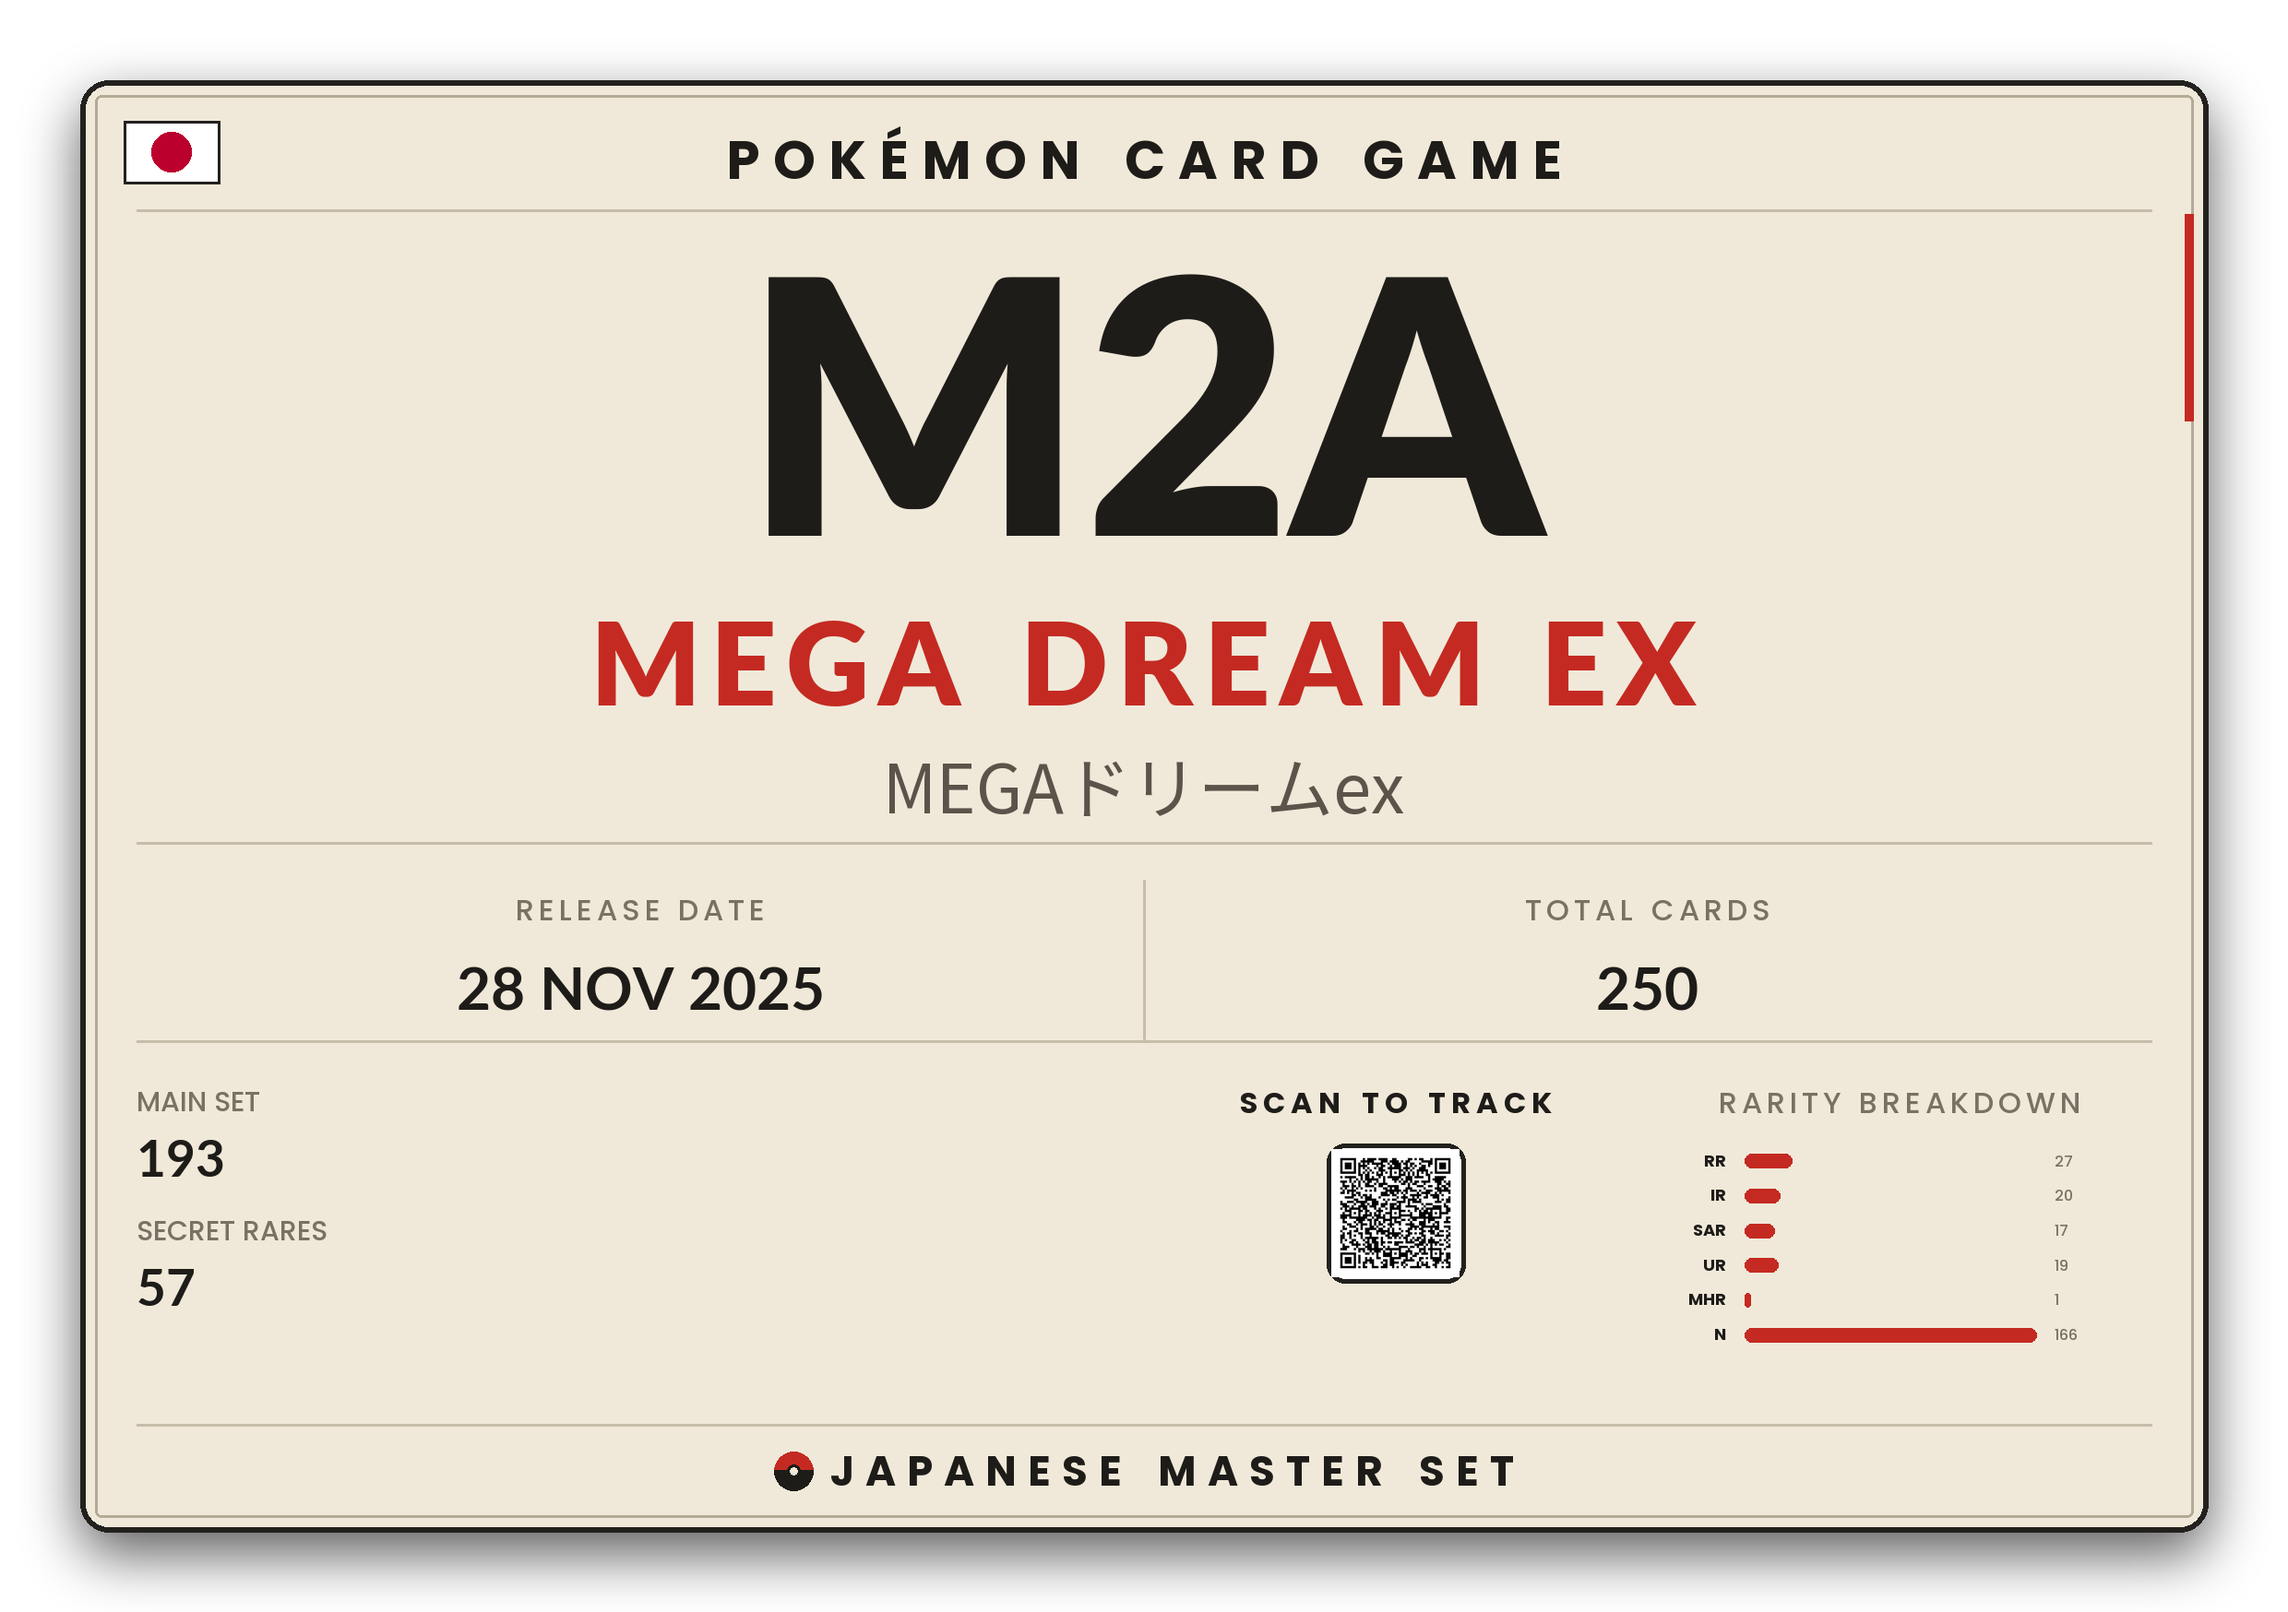
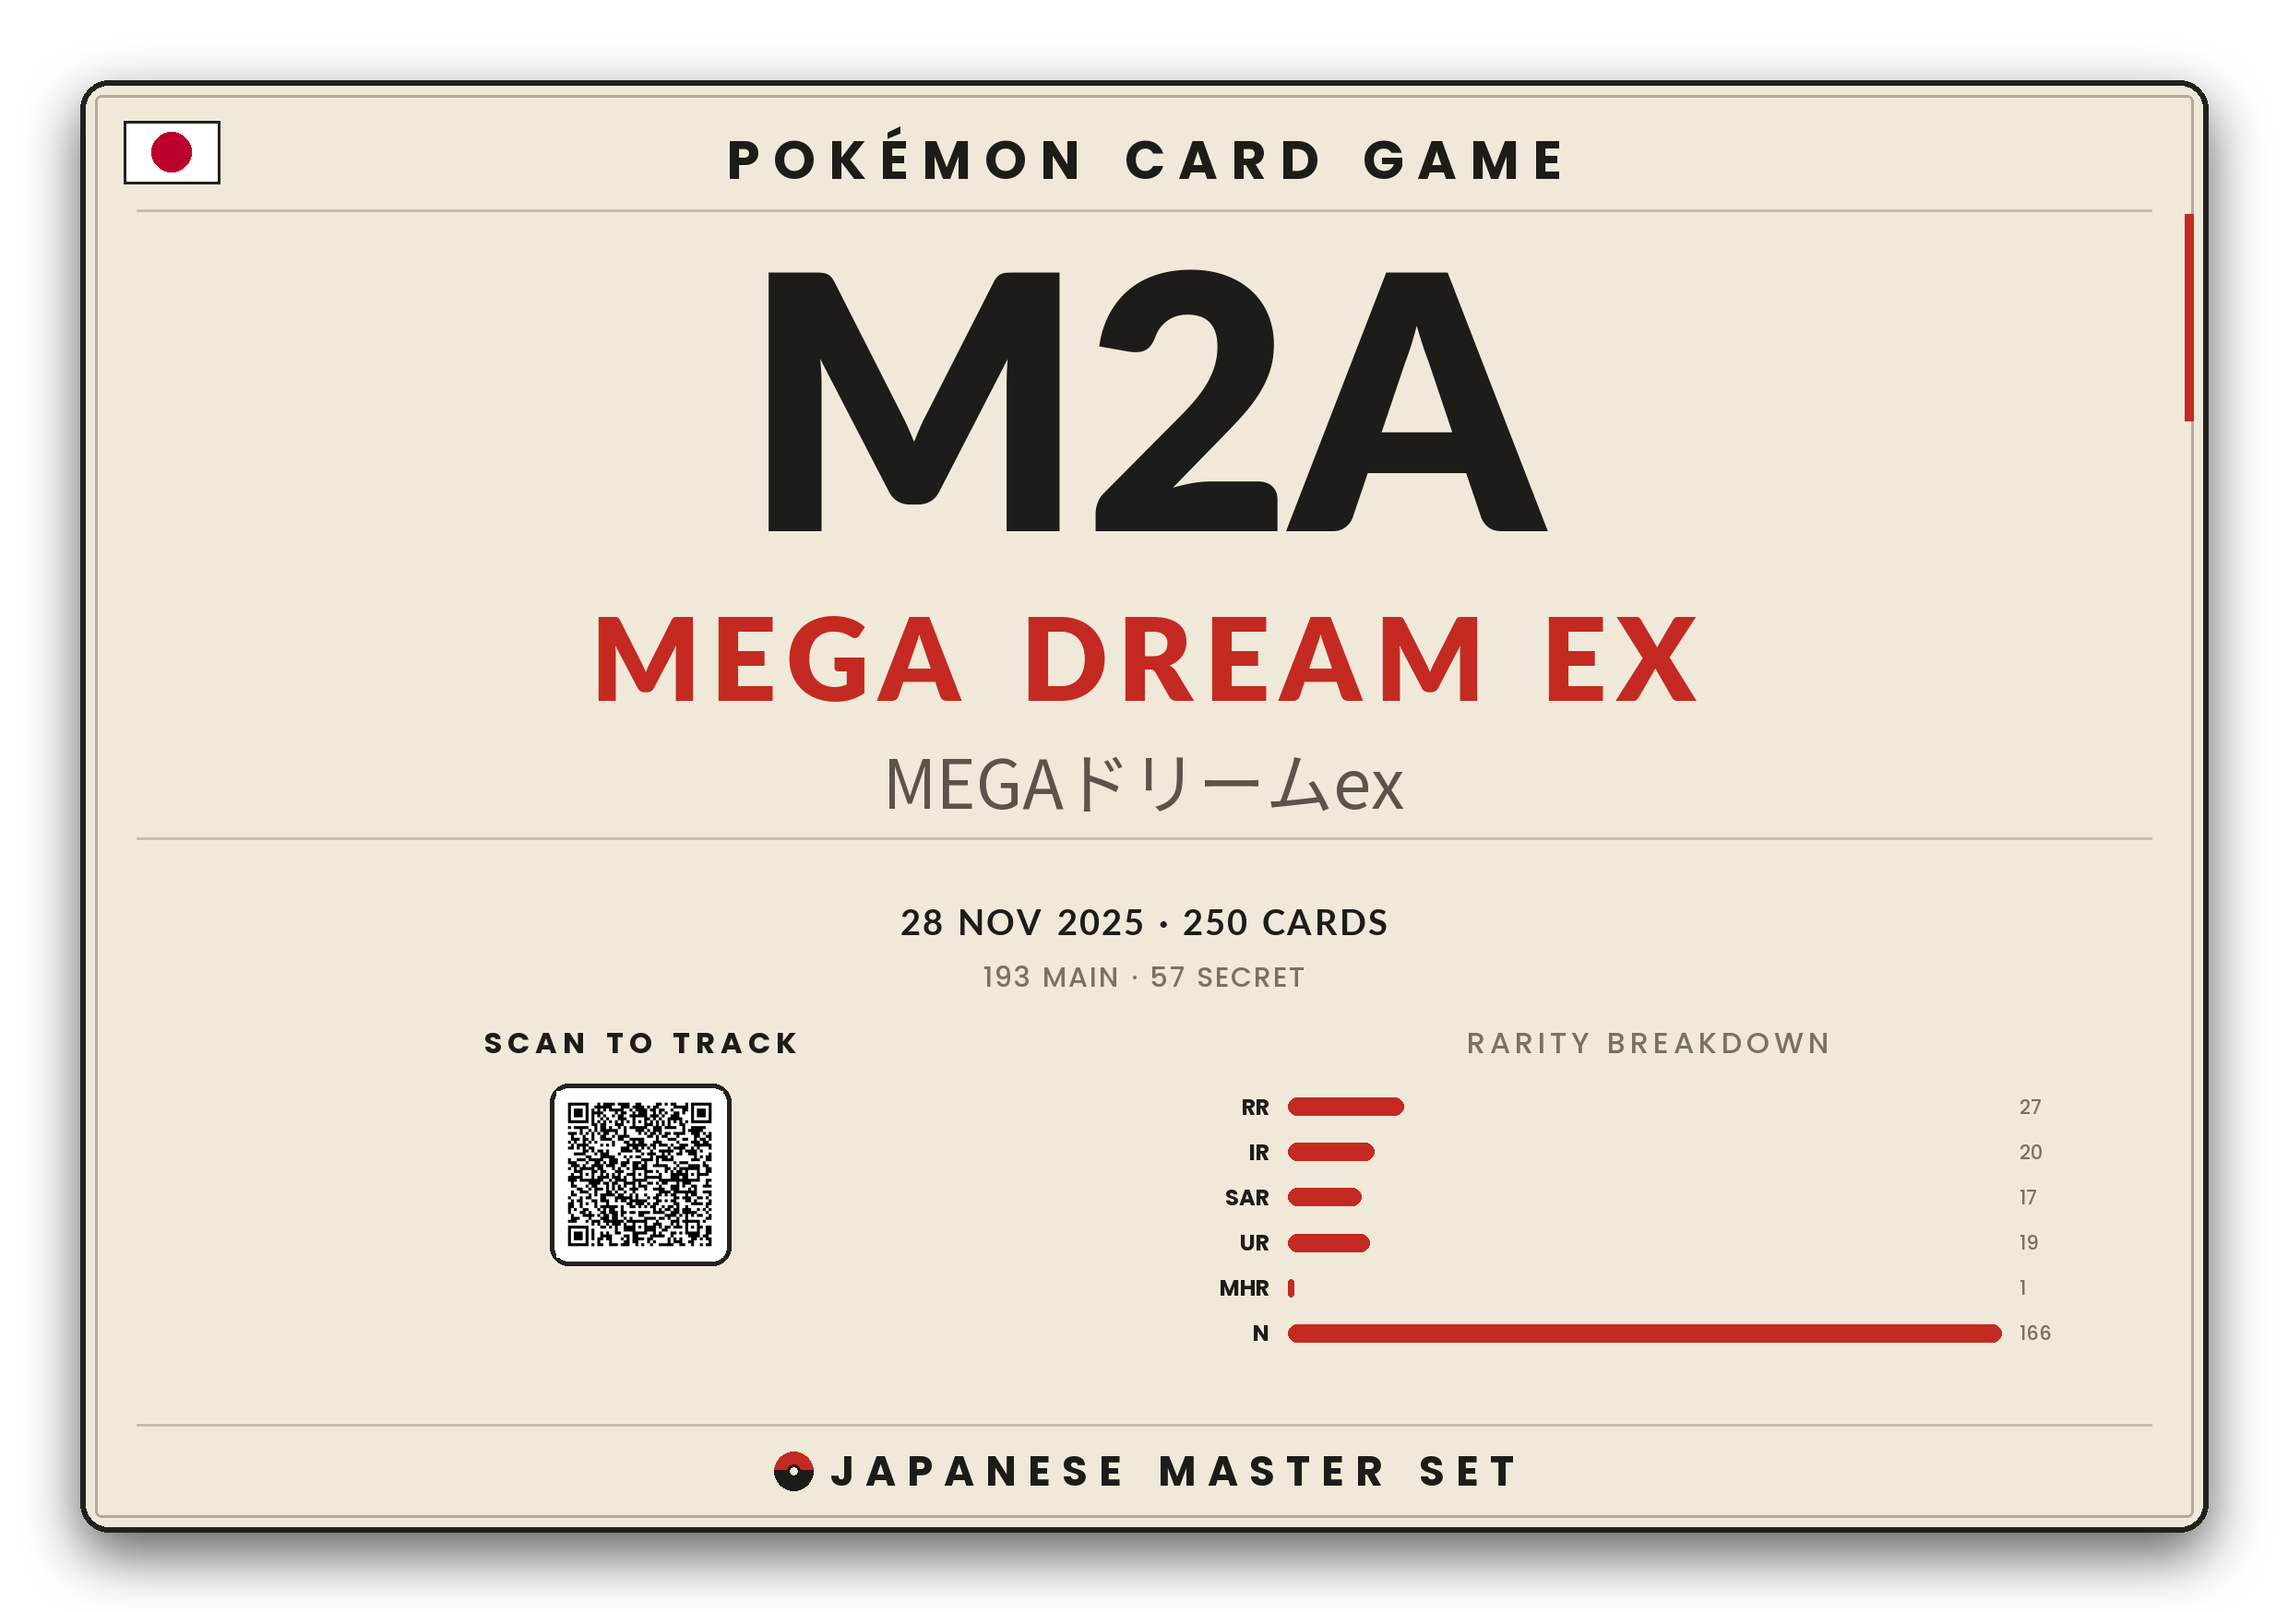
Match single-set a5-landscape's date/stats/QR layout to the dual cover's style
Replaces the square/a5 layout's two-column RELEASE DATE/TOTAL CARDS grid and
separate left-column stats block with the dual cover's compact centered
lines on a5-landscape specifically: "DATE · N CARDS" then "N MAIN · N
SECRET" below it, both centered on the panel. There's only one set here so
a left/right split wasn't buying anything, and centering (rather than
biasing right) also let the QR code/gauge/rarity row below move to being
centered as a pair around the panel center instead of confined to the
former right column.

QR code size is now scaled by dscale on a5-landscape (previously left
unscaled like run_dual's) -- it looked too small once everything else
around it grew, since it was the only large fixed-size graphic left in an
otherwise-scaled-up layout. The completion gauge's centering moved from the
old right-column gcx to cx to match.

Square/a5 (portrait) single-set covers are unchanged -- confirmed via a
full samples/ regeneration: only the one a5-landscape sample changed.

Claude-Session: https://claude.ai/code/session_012g1hrG9yNUmtUXkQJaJDXf

diff --git a/binder_cover.py b/binder_cover.py
@@ -479,8 +479,12 @@ def build_cover(cfg):
         # needs to be a bit smaller to leave room for the chart next to it.
         wants_qr_and_rarity = landscape and bool(cfg.qr_url) and bool(cfg.rarity_counts)
         qr_img = None
-        qr_size = int(S * 0.1194)  # 430/3600
-        qr_size_split = int(S * 0.08)
+        # Scaled by dscale (1.0 off a5-landscape, so square/a5 are unaffected) --
+        # unlike run_dual's QR, this one looked small once the surrounding text on
+        # a5-landscape grew via dscale, since it's now the only large fixed-size
+        # graphic left in a layout otherwise scaled up to match.
+        qr_size = int(S * 0.1194 * dscale)  # 430/3600
+        qr_size_split = int(S * 0.08 * dscale)
         if cfg.qr_url:
             qr_img = make_qr_image(cfg.qr_url, qr_size_split if wants_qr_and_rarity else qr_size,
                                     verbose=cfg.verbose)
@@ -954,6 +958,71 @@ def build_cover(cfg):
             draw.line([(content_x0, ym), (content_x1, ym)], fill=LIGHT_RULE, width=3)
         ym += int(S * 0.029)
 
+        if landscape:
+            # Compact centered date/cards + stats lines, same style as the dual
+            # layout's per-column "DATE · CARDS" / "MAIN · SECRET" lines, instead
+            # of the square/a5 two-column grid + separate left-stats block below --
+            # there's only one set here so a left/right split isn't needed, and
+            # centering everything (including the QR/gauge/rarity row further
+            # down) keeps this visually consistent with the dual-set cover.
+            mini_text = f"{cfg.release_date.upper()} · {cfg.total_cards} CARDS"
+            f_mini = fit_font("bold_display", mini_text, dsz(60), content_w, dsz(30), fd, spacing=2)
+            mini_top = ym + int(S * 0.014)
+            if render_:
+                draw_spaced(draw, cx, mini_top, mini_text, f_mini, INK, 2)
+            ym = mini_top + int(f_mini.size * 1.3)
+
+            if stats:
+                stat_text = " · ".join(f"{value} {label.split()[0].upper()}" for label, value in stats)
+                f_stat = fit_font("medium", stat_text, dsz(48), content_w, dsz(22), fd, spacing=2)
+                stat_top = ym + int(S * 0.004)
+                if render_:
+                    draw_spaced(draw, cx, stat_top, stat_text, f_stat, GRAY, 2)
+                ym = stat_top + int(f_stat.size * 1.3)
+
+            extra_top = ym + int(S * 0.018)
+
+            if qr_img is not None and cfg.rarity_counts:
+                # Split around cx the same way run_dual splits a column in half
+                # for its "both" case.
+                half_w = content_w / 4
+                qr_gcx = cx - half_w
+                rarity_gcx = cx + half_w
+                qr_bottom = draw_qr(qr_gcx, half_w * 1.7, extra_top, render_)
+                rarity_bottom = draw_rarity(rarity_gcx, half_w * 0.85, extra_top, render_)
+                return max(qr_bottom, rarity_bottom)
+
+            if qr_img is not None:
+                return draw_qr(cx, content_w * 0.6, extra_top, render_)
+
+            if completion is not None:
+                # Scaled by dscale along with gauge_pct_font/gauge_caption_font so
+                # the ring grows to fit its own (now bigger) text instead of the
+                # percentage/"COMPLETE" label overflowing a fixed-size ring.
+                gauge_r = int(S * 0.0697 * dscale)
+                gcy = extra_top + gauge_r + int(S * 0.011)
+                bbox = [cx - gauge_r, gcy - gauge_r, cx + gauge_r, gcy + gauge_r]
+                thickness = int(gauge_r * 0.18)
+                pct = max(0, min(100, completion["pct"]))
+                if render_:
+                    draw.arc(bbox, 0, 360, fill=(222, 213, 193), width=thickness)
+                    draw.arc(bbox, -90, -90 + 360 * (pct / 100.0), fill=RED, width=thickness)
+                    centered(draw, cx, gcy - gauge_pct_font.size * 0.28, f"{pct}%", gauge_pct_font, INK)
+                    draw_spaced(draw, cx, gcy + gauge_pct_font.size * 0.5, "COMPLETE", gauge_caption_font, GRAY, 6)
+                bottom = gcy + gauge_r
+                if completion["collected"] is not None:
+                    cap_y = bottom + int(S * 0.02)
+                    if render_:
+                        centered(draw, cx, cap_y, f"{completion['collected']} / {completion['total']}", val2_font, INK)
+                    bottom = cap_y + int(val2_font.size * 0.8)
+                return bottom
+
+            if cfg.rarity_counts:
+                return draw_rarity(cx, int(content_w * 0.2), extra_top, render_)
+
+            return extra_top
+
+        # ---- square/a5 (portrait): release date / total cards two-column grid --
         grid_top = ym
         row1_val_y = grid_top + int(lbl_font.size * 2.36)
 
@@ -1008,25 +1077,11 @@ def build_cover(cfg):
         right_bottom = row2_top
         qr_col_max_w = content_x1 - cx
 
-        if qr_img is not None and cfg.rarity_counts and landscape:
-            # Landscape's right area is wide enough to show the QR code and the
-            # rarity chart side by side instead of one replacing the other.
-            right_x0, right_x1 = cx, content_x1
-            half_w = (right_x1 - right_x0) / 2
-            qr_gcx = right_x0 + half_w * 0.5
-            rarity_gcx = right_x0 + half_w * 1.5
-            qr_bottom = draw_qr(qr_gcx, half_w * 0.86, row2_top, render_)
-            rarity_bottom = draw_rarity(rarity_gcx, half_w * 0.42, row2_top, render_)
-            right_bottom = max(qr_bottom, rarity_bottom)
-
-        elif qr_img is not None:
+        if qr_img is not None:
             right_bottom = draw_qr(gcx, qr_col_max_w, row2_top, render_)
 
         elif completion is not None:
-            # Scaled by dscale along with gauge_pct_font/gauge_caption_font so the
-            # ring grows to fit its own (now bigger, on a5-landscape) text instead
-            # of the percentage/"COMPLETE" label overflowing a fixed-size ring.
-            gauge_r = int(S * 0.0697 * dscale)
+            gauge_r = int(S * 0.0697)
             gcy = row2_top + gauge_r + int(S * 0.011)
             bbox = [gcx - gauge_r, gcy - gauge_r, gcx + gauge_r, gcy + gauge_r]
             thickness = int(gauge_r * 0.18)
